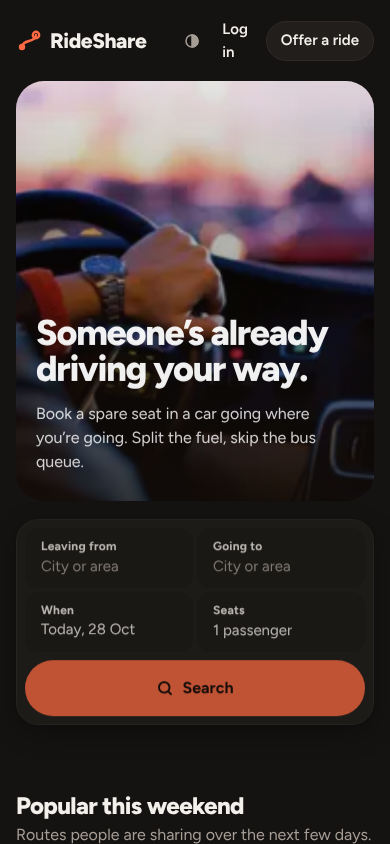
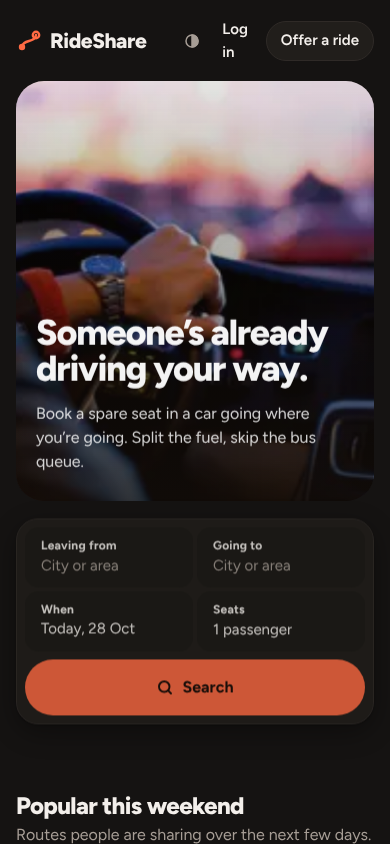
fix(maps): final review — follow route changes, safe theme switch, visible credits, focus return, India-only places
Claude-Session: https://claude.ai/code/session_015EUy6wgKQuKCJRudqvVpTd

diff --git a/tests/unit/components/route-map.test.tsx b/tests/unit/components/route-map.test.tsx
@@ -10,6 +10,7 @@ class FakeMap {
   handlers: Record<string, Handler[]> = {};
   setStyle = vi.fn((...args: unknown[]) => {
     void args;
+    this.styleLoaded = false;
     this.layers = [];
     this.sources = {};
   });
@@ -28,6 +29,8 @@ class FakeMap {
     (this.listeners[ev] ?? []).forEach((h) => h());
   }
   emit(ev: string) {
+    if (ev === 'style.load') this.styleLoaded = true;
+    (this.listeners[ev] ?? []).forEach((h) => h());
     const hs = this.handlers[ev] ?? [];
     this.handlers[ev] = [];
     hs.forEach((h) => h());
@@ -54,7 +57,10 @@ class FakeMap {
   removeLayer(id: string) {
     this.layers = this.layers.filter((l) => l.id !== id);
   }
-  setPaintProperty() {}
+  styleLoaded = true;
+  setPaintProperty = vi.fn(() => {
+    if (!this.styleLoaded) throw new Error('Style is not done loading.');
+  });
   remove() {}
 }
 
@@ -131,8 +137,46 @@ describe('RouteMapInner', () => {
         [75.7873, 26.9124],
         [77.209, 28.6139],
       ],
-      expect.objectContaining({ padding: { top: 48, right: 48, bottom: 96, left: 48 }, animate: false }),
+      expect.objectContaining({ padding: { top: 96, right: 48, bottom: 48, left: 48 }, animate: false }),
     );
+  });
+
+  it('redraws when the route changes after the first load, even while tiles are still loading', () => {
+    const { rerender } = render(<RouteMapInner origin={DELHI} dest={JAIPUR} polyline={poly} />);
+    act(() => FakeMap.last.emit('style.load'));
+    // FakeMap.isStyleLoaded() is false (as it is in MapLibre while tiles stream in)
+    const AGRA = { lat: 27.1767, lng: 78.0081, label: 'Agra' };
+    rerender(<RouteMapInner origin={DELHI} dest={AGRA} polyline={null} />);
+    const route = FakeMap.last.sources.route.data as { geometry: { coordinates: number[][] } };
+    expect(route.geometry.coordinates.at(-1)).toEqual([AGRA.lng, AGRA.lat]);
+    expect(container()).toHaveAttribute('data-route-state', 'straight');
+  });
+
+  it('stops the draw-in animation before switching style', async () => {
+    setMotion(false);
+    const frames: FrameRequestCallback[] = [];
+    vi.stubGlobal('requestAnimationFrame', (cb: FrameRequestCallback) => frames.push(cb));
+    vi.stubGlobal('cancelAnimationFrame', (id: number) => {
+      frames[id - 1] = () => {};
+    });
+    render(<RouteMapInner origin={DELHI} dest={JAIPUR} polyline={poly} />);
+    act(() => FakeMap.last.emit('style.load'));
+    await act(async () => {
+      document.documentElement.setAttribute('data-theme', 'dark');
+      await Promise.resolve();
+    });
+    // A frame scheduled before the switch must not touch the not-yet-loaded new style.
+    expect(() => frames.forEach((f) => f(performance.now() + 100))).not.toThrow();
+    vi.unstubAllGlobals();
+  });
+
+  it('keeps the map credits expanded after load', () => {
+    render(<RouteMapInner origin={DELHI} dest={JAIPUR} polyline={poly} />);
+    const attrib = document.createElement('div');
+    attrib.className = 'maplibregl-ctrl-attrib maplibregl-compact maplibregl-compact-show';
+    container().appendChild(attrib);
+    act(() => FakeMap.last.emit('load'));
+    expect(attrib).toHaveClass('maplibregl-compact-show');
   });
 
   it('re-styles on theme change and keeps the route', async () => {

diff --git a/src/components/map/route-map-inner.tsx b/src/components/map/route-map-inner.tsx
@@ -18,6 +18,9 @@ export function RouteMapInner({ origin, dest, polyline }: Omit<RouteMapProps, 'c
   const shownTheme = useRef<MapTheme | null>(null);
   const cancelDraw = useRef<() => void>(() => {});
   const latest = useRef<{ bounds: [[number, number], [number, number]] } | null>(null);
+  // MapLibre's isStyleLoaded() is false whenever tiles or sources are still loading, and `style.load`
+  // fires only once per style, so track readiness ourselves.
+  const styleReady = useRef(false);
   const theme = useResolvedTheme();
   const [state, setState] = useState<State>('pending');
   const data = useMemo(
@@ -43,10 +46,9 @@ export function RouteMapInner({ origin, dest, polyline }: Omit<RouteMapProps, 'c
     m.on('resize', () => {
       if (latest.current) m.fitBounds(latest.current.bounds, { padding: FIT_PADDING, animate: false });
     });
-    // Start with the compact credits collapsed so they don't cover the summary card.
-    m.on('load', () =>
-      el.current?.querySelector('.maplibregl-ctrl-attrib')?.classList.remove('maplibregl-compact-show'),
-    );
+    m.on('style.load', () => {
+      styleReady.current = true;
+    });
     map.current = m;
     shownTheme.current = theme;
     return () => {
@@ -67,9 +69,11 @@ export function RouteMapInner({ origin, dest, polyline }: Omit<RouteMapProps, 'c
     };
     if (shownTheme.current !== theme) {
       shownTheme.current = theme;
+      cancelDraw.current(); // the animation must not touch the outgoing style
+      styleReady.current = false;
       m.setStyle(mapStyle({ theme, tiles: tilesOn() }), { diff: false });
       m.once('style.load', draw);
-    } else if (m.isStyleLoaded()) {
+    } else if (styleReady.current) {
       draw();
     } else {
       m.once('style.load', draw);

diff --git a/src/components/trips/publish-form.tsx b/src/components/trips/publish-form.tsx
@@ -56,6 +56,12 @@ export function PublishForm({ cars, minDate }: { cars: CarOption[]; minDate: str
   const [pickerKeys, setPickerKeys] = useState({ origin: 0, dest: 0 });
   const [mapFor, setMapFor] = useState<'origin' | 'dest' | null>(null);
 
+  // The dialog (and, after a pick, the picker) unmount, so the browser can't restore focus itself.
+  function closeMap(field: 'origin' | 'dest' | null) {
+    setMapFor(null);
+    if (field) requestAnimationFrame(() => document.getElementById(field)?.focus());
+  }
+
   function onSubmit(e: FormEvent<HTMLFormElement>) {
     e.preventDefault();
     const raw = Object.fromEntries(new FormData(e.currentTarget));
@@ -179,13 +185,13 @@ export function PublishForm({ cars, minDate }: { cars: CarOption[]; minDate: str
         key={mapFor ?? 'closed'}
         open={mapFor !== null}
         initial={mapFor ? places[mapFor] : null}
-        onClose={() => setMapFor(null)}
+        onClose={() => closeMap(mapFor)}
         onPick={(p) => {
           const field = mapFor!;
           const place = { label: p.label, lat: p.lat, lng: p.lng };
           setPlaces((cur) => ({ ...cur, [field]: place }));
           setPickerKeys((k) => ({ ...k, [field]: k[field] + 1 }));
-          setMapFor(null);
+          closeMap(field);
         }}
       />
     </form>

diff --git a/tests/unit/geo/providers.test.ts b/tests/unit/geo/providers.test.ts
@@ -43,6 +43,18 @@ describe('photon provider', () => {
     expect(new Headers((init as RequestInit).headers).get('user-agent')).toMatch(/^RideShare/);
   });
 
+  it('drops features outside India even inside the bbox (e.g. Lahore)', async () => {
+    mockFetch({
+      features: [
+        { geometry: { coordinates: [74.3436, 31.5497] }, properties: { name: 'Lahore', state: 'Punjab', countrycode: 'PK' } },
+        { geometry: { coordinates: [75.8573, 30.901] }, properties: { name: 'Ludhiana', state: 'Punjab', countrycode: 'IN' } },
+      ],
+    });
+    expect((await photonProvider.search('la', 10)).map((p) => p.label)).toEqual(['Ludhiana, Punjab']);
+    mockFetch({ features: [{ geometry: { coordinates: [85.32, 27.71] }, properties: { name: 'Kathmandu', countrycode: 'NP' } }] });
+    expect(await photonProvider.reverse({ lat: 27.71, lng: 85.32 })).toBeNull();
+  });
+
   it('drops features without a name', async () => {
     mockFetch({ features: [{ geometry: { coordinates: [75.8, 26.9] }, properties: { state: 'Rajasthan' } }] });
     expect(await photonProvider.search('x', 10)).toEqual([]);

diff --git a/tests/e2e/maps.spec.ts b/tests/e2e/maps.spec.ts
@@ -8,6 +8,16 @@ test('trip and search pages show route maps that follow the focused ride and the
   const first = await publishTrip(page, { daysOut, time: '01:10' });
   const second = await publishTrip(page, { daysOut, time: '01:40', addCar: false });
 
+  // "Choose on map…" returns focus to its picker when the dialog closes.
+  await gotoReady(page, '/trips/new');
+  const from = page.getByRole('combobox', { name: 'From' });
+  await from.pressSequentially('De');
+  await page.getByRole('option', { name: 'Choose on map…' }).click();
+  await expect(page.getByRole('dialog', { name: 'Choose on map' })).toBeVisible();
+  await page.getByRole('button', { name: 'Cancel' }).click();
+  await expect(page.getByRole('dialog')).toHaveCount(0);
+  await expect(page.getByRole('combobox', { name: 'From' })).toBeFocused();
+
   // Trip page: the stored (fake) route is drawn.
   await gotoReady(page, first);
   await expect(page.getByTestId('route-map')).toHaveAttribute('data-route-state', 'drawn');

diff --git a/src/modules/geo/providers/photon.ts b/src/modules/geo/providers/photon.ts
@@ -7,7 +7,7 @@ export const USER_AGENT = 'RideShare/1.0 (portfolio demo)';
 
 type Feature = {
   geometry?: { coordinates?: [number, number] };
-  properties?: { name?: string; city?: string; county?: string; state?: string };
+  properties?: { name?: string; city?: string; county?: string; state?: string; countrycode?: string };
 };
 
 // "Jaipur Municipal Corporation" and "Jaipur Tehsil" should read as "Jaipur".
@@ -17,7 +17,8 @@ const clean = (s: string) => s.replace(ADMIN_SUFFIX, '').trim();
 function toSuggestion(f: Feature): PlaceSuggestion | null {
   const p = f.properties ?? {};
   const coords = f.geometry?.coordinates;
-  if (!p.name || !coords) return null;
+  // The India bbox also covers parts of Pakistan, Nepal, Bhutan, Bangladesh and Sri Lanka.
+  if (!p.name || !coords || p.countrycode !== 'IN') return null;
   const context = [p.city, p.county, p.state]
     .filter((s): s is string => Boolean(s))
     .map(clean)

diff --git a/tests/unit/components/route-map-frame.test.tsx b/tests/unit/components/route-map-frame.test.tsx
@@ -1,0 +1,16 @@
+import { render, screen } from '@testing-library/react';
+import { describe, expect, it, vi } from 'vitest';
+
+vi.mock('next/dynamic', () => ({ default: () => () => null }));
+
+import { RouteMap } from '@/components/map/route-map';
+
+describe('RouteMap frame', () => {
+  it('is a labelled region (not an img, which would hide the zoom controls from assistive tech)', () => {
+    render(
+      <RouteMap origin={{ lat: 28.6, lng: 77.2, label: 'Delhi' }} dest={{ lat: 26.9, lng: 75.8, label: 'Jaipur' }} polyline={null} />,
+    );
+    expect(screen.getByRole('region', { name: 'Map of the route from Delhi to Jaipur' })).toBeInTheDocument();
+    expect(screen.queryByRole('img')).toBeNull();
+  });
+});

diff --git a/src/components/map/route-layers.ts b/src/components/map/route-layers.ts
@@ -25,8 +25,8 @@ export type RouteData = {
 const LAYERS = ['route-casing', 'route-line', 'pickup', 'dest'] as const;
 const SOURCES = ['route', 'pins'] as const;
 const DRAW_MS = 1600;
-// Extra room at the bottom for the summary card that overlays the map.
-export const FIT_PADDING = { top: 48, right: 48, bottom: 96, left: 48 };
+// Extra room at the top for the summary card that overlays the map.
+export const FIT_PADDING = { top: 96, right: 48, bottom: 48, left: 48 };
 
 export function routeData(origin: LatLng, dest: LatLng, polyline: string | null): RouteData {
   const line = polyline

diff --git a/src/app/trips/[id]/page.tsx b/src/app/trips/[id]/page.tsx
@@ -47,7 +47,7 @@ export default async function TripPage({ params }: Props) {
           dest={trip.dest}
           polyline={trip.routePolyline}
         />
-        <p className="pointer-events-none absolute right-4 bottom-4 left-4 max-w-sm rounded-[16px] bg-surface px-4 py-3 text-sm shadow-float">
+        <p className="pointer-events-none absolute top-4 right-16 left-4 max-w-sm rounded-[16px] bg-surface px-4 py-3 text-sm shadow-float">
           {routeSummary({ originLabel: trip.origin.label, durationMin: trip.durationMin, distanceKm: trip.distanceKm })}
         </p>
       </div>

diff --git a/src/components/trips/search-results.tsx b/src/components/trips/search-results.tsx
@@ -47,7 +47,7 @@ export function SearchResults({ items, searched, header, empty, footer }: Props)
         polyline={selected?.routePolyline ?? null}
       />
       {selected ? (
-        <p className="pointer-events-none absolute right-4 bottom-4 left-4 max-w-sm rounded-[16px] bg-surface px-4 py-3 text-sm shadow-float">
+        <p className="pointer-events-none absolute top-4 right-16 left-4 max-w-sm rounded-[16px] bg-surface px-4 py-3 text-sm shadow-float">
           {routeSummary({
             originLabel: selected.originLabel,
             durationMin: selected.durationMin,

diff --git a/src/components/map/route-map.tsx b/src/components/map/route-map.tsx
@@ -22,7 +22,7 @@ export function RouteMap({ className, ...props }: RouteMapProps) {
   return (
     <div
       className={cn('relative overflow-hidden rounded-card border border-line bg-[var(--map-land)]', className)}
-      role="img"
+      role="region"
       aria-label={`Map of the route from ${props.origin.label} to ${props.dest.label}`}
     >
       <Inner {...props} />
